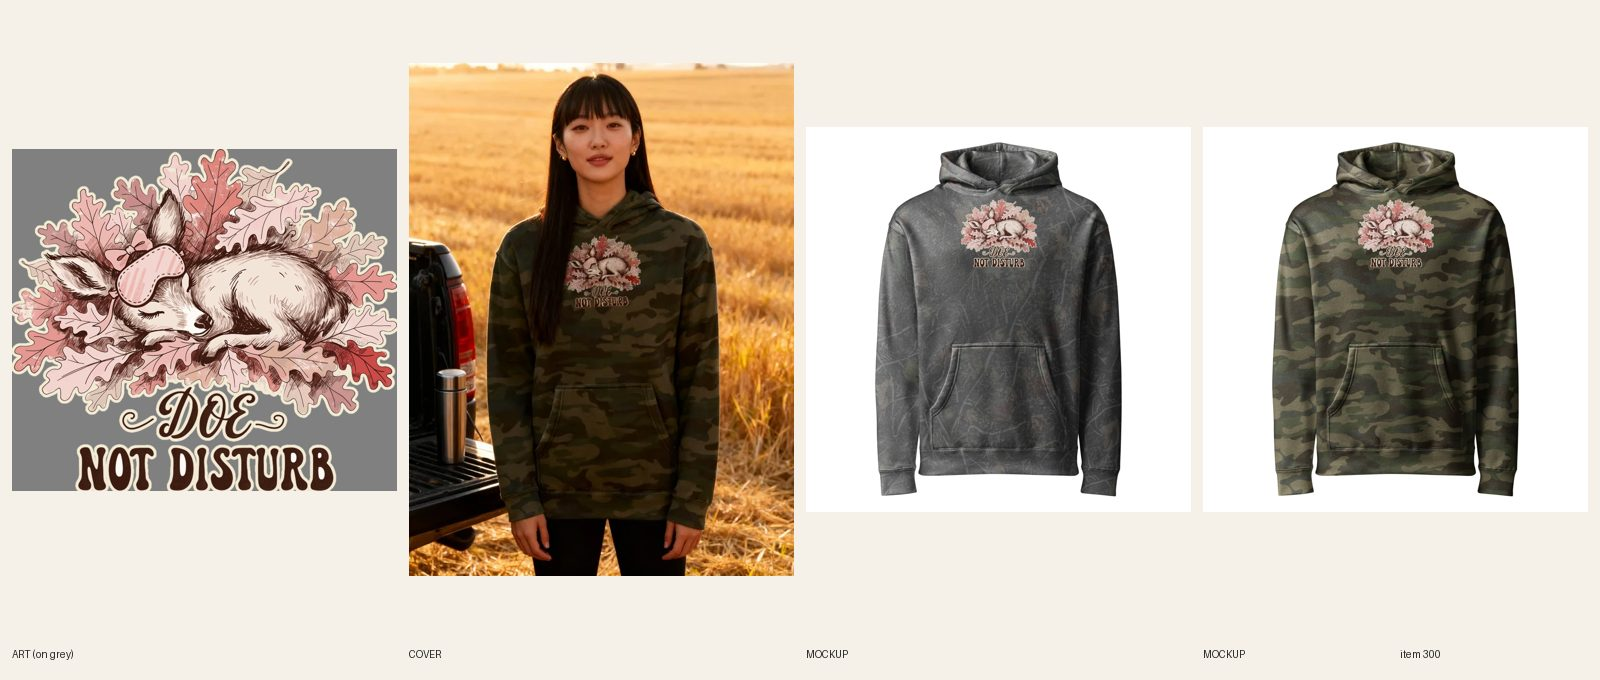
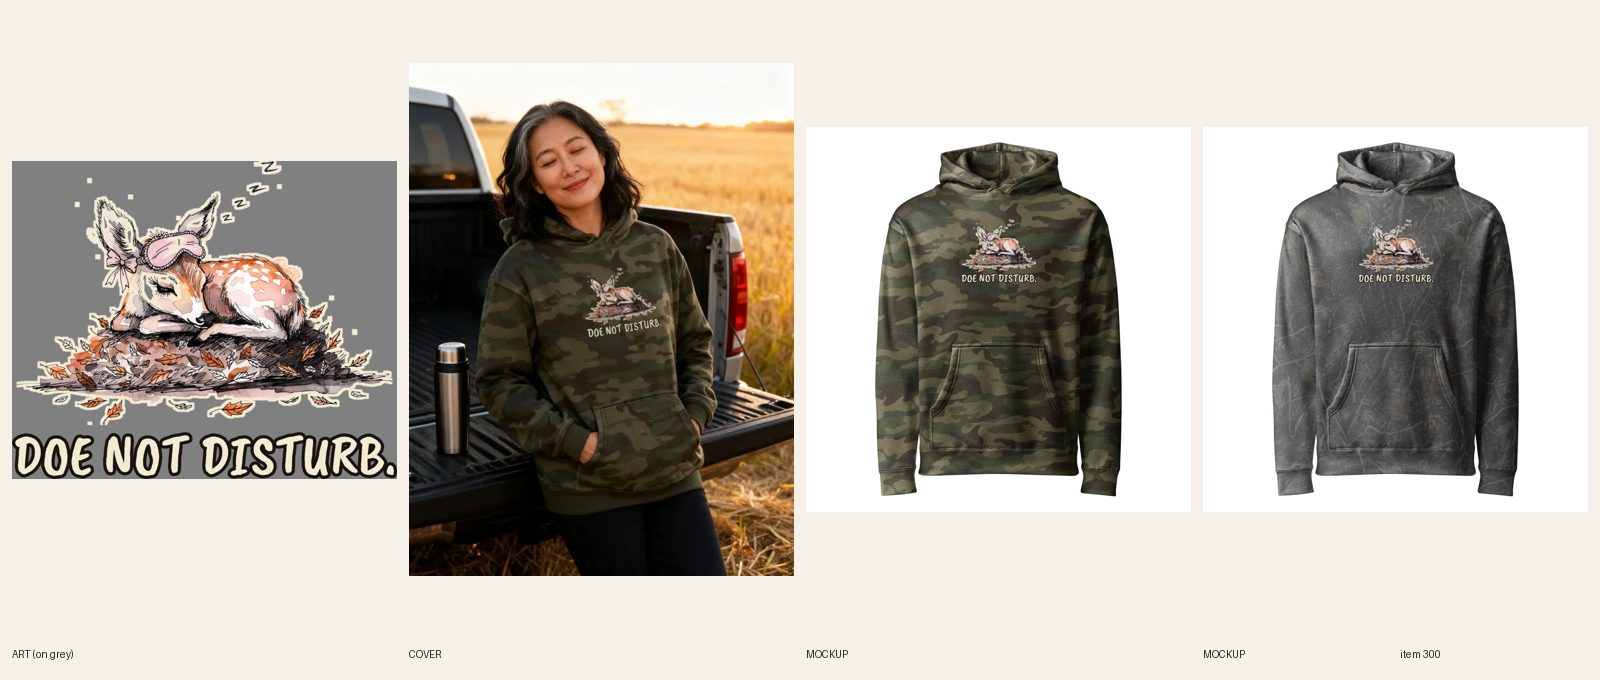
[B] review 300 camo redo 5 (sleeping doe A+ print, lifestyle photos)
Claude-Session: https://claude.ai/code/session_01BAg7bF21Ht7ddHUdvYd5c7

Changed region(s): [[0.0, 0.0926, 0.5, 0.8647], [0.5312, 0.2162, 0.7188, 0.7412], [0.7812, 0.2162, 0.9688, 0.7412]]

diff --git a/docs/intake-log.md b/docs/intake-log.md
@@ -1,4 +1,5 @@
 RUNNING lane B since 2026-10-24 21:28 UTC
+2026-10-24 21:41 UTC — [B] REVIEW #300 Women's Hunting – Doe Not Disturb Camo Hoodie (camo-redo 5 of 27, S5 on A+, FW1500 TOP400, 14/14 on 1094004969, line 100%, art 94%, Caveat Brush; 2 lifestyle photos). fal ~$0.30.
 2026-10-24 17:34 UTC — [B] Builder run end: 2 items (photos-only REDOs). #289 Fake Friends: 1 lifestyle photo passed (image 1), slot 2 failed 3 calls, flat kept. #303 Camp Security: 2 calls, both rejected (garbled caption, braid over print), flats kept, cover: fal-swap. No new products built (Oct 24 Chicago day: 0 of 6 new). fal ~$0.36. Lock released.
 2026-10-24 14:50 UTC — [H] Helper run: Telegram inbox empty (getUpdates returned 0; nothing to consume). Audit 726 live products: 7 ERRORs (all visual cover errors, left for the director, already noted), 156 warnings left alone; no scripted fixes; committed docs/cohesion-audit.md and .json (npm ci first, esbuild was missing). Price errors: none. Category check: 0 products without a Shopify category (no mutation). Shopify: 0 orders since 2026-10-23 23:47 UTC, so no Printful hold check. Site freshness: #935, #936, #906 product pages and homepage 200; /hoodies/zip-up-hoodies/ 200. Stuck work: no BUILDING items; no other lane locks. Daily summary sent (first helper run after 12:00 UTC): 726 live, 6 new today, REVIEW 84, READY 56, 7 audit errors, 0 price errors, newest product and homepage links. Lock released.
 2026-10-24 14:41 UTC — [D] Director run: inbox: Sam's lane E question answered on Telegram (third zip/camo lane from 10-21; one builder runs now per R11.15); stale lane E and lane C locks from 10-20/21 cleared so the helper stops alerting; Facebook link needs no action. Reviewed 2 camo redo sheets: #292 Fluent in Honk LIVE (in place, already ACTIVE, not a new product; A+ size checks met, 2 lifestyle photos, audit PASS 0 warn); #289 Fake Friends REDO for photos only (print approved, no lifestyle photos yet, slot 2 never tried). 6 new LIVE (Oct 24 Chicago day, cap reached; zip/camo push: zip past 40, camo has no approved new item, so thin-niche order from the held queue), sheets re-read: zips #912 cat Clocked It, #923 gym Squire Spot Me, #931 gym Twelve Labors, #939 men's Christmas Attending Under Protest, #940 men's Christmas It Looked Smaller at the Farm, #916 pit bull Professional Lap Dog; all ACTIVE + Online Store, Headless, Google & YouTube, audit --handle PASS (1 warn each: no lifestyle cover; #916 meta trimmed 168 to 144 chars). #909 bookish zip held back (back print looks small on the mockup; re-check before it goes). No new briefs: 56 READY, over the 6-12 target. Telegram: digest sent (all 6 links and the zip collection 200). Lock released.

diff --git a/docs/pipeline/300-camo-hoodie-doe-not-disturb.md b/docs/pipeline/300-camo-hoodie-doe-not-disturb.md
@@ -1,4 +1,4 @@
-status: REDO
+status: REVIEW
 lane: B
 type: new
 id: 300
@@ -26,3 +26,4 @@ handle: womens-hunting-doe-not-disturb-camo-hoodie
 - 2026-10-17 02:14 UTC director: approved from docs/review/300.jpg; ACTIVE + Online Store + Headless + Google; cohesion-audit --handle PASS (0 warn). LIVE.
 - 2026-10-22 22:00 UTC Claude (Sam): REDO, camo redo #5 of 27, style S5. New art in its own style, no box, no condensed sans, placement per docs/backlog/camo-redo.md (never TOP 0). Redo in place.
 - 2026-10-22 22:40 UTC Claude (Sam): placement A/B test, this item is A+ (center 10 in, tag placement-a).
+- 2026-10-24 21:40 UTC [B]: camo-redo #5 (S5 sketchbook on A+, tag placement-a), in place on product 15362824372528. New art: 1 Recraft call (loose ink-and-watercolor sleeping doe, sleep mask, leaves, no lettering), thin cream halo, no box; line DOE NOT DISTURB. set in Caveat Brush (cream fill, dark keyline; faces of last 5 lane B builds: Cinzel, Bowlby, Fraunces, Playfair, Bevan; Caveat not among them). Single line, 7h n/a (line 100% of print width); art 94% of width. Print 3178 x 2629, FW 1500 TOP 400 (height 1241, TOP+h 1641 <= 2100); cap height ~158 px at FW1500 (>= 90). R7.7: Darkwood Tree Camo + Forest Camo 14/14 on file 1094004969, back logo 1080398177. Front mockups replaced in place (phone-size read OK), old back kept. Title unchanged (same line); copy, SEO, FAQ (4 x 40-60 words) rewritten; tag placement-a added. Lifestyle: registry 1149; 4 seedream calls: tailgate cover kept (call 1), porch photo took 3 calls (garbled DISTIUR8, then short sleeves, third clean), text legible at 200%, images 1-2; covers.ts alt updated. Audit PASS 0 warn. Sheet docs/review/300.jpg. Product is ACTIVE: director to confirm. fal ~$0.30.
